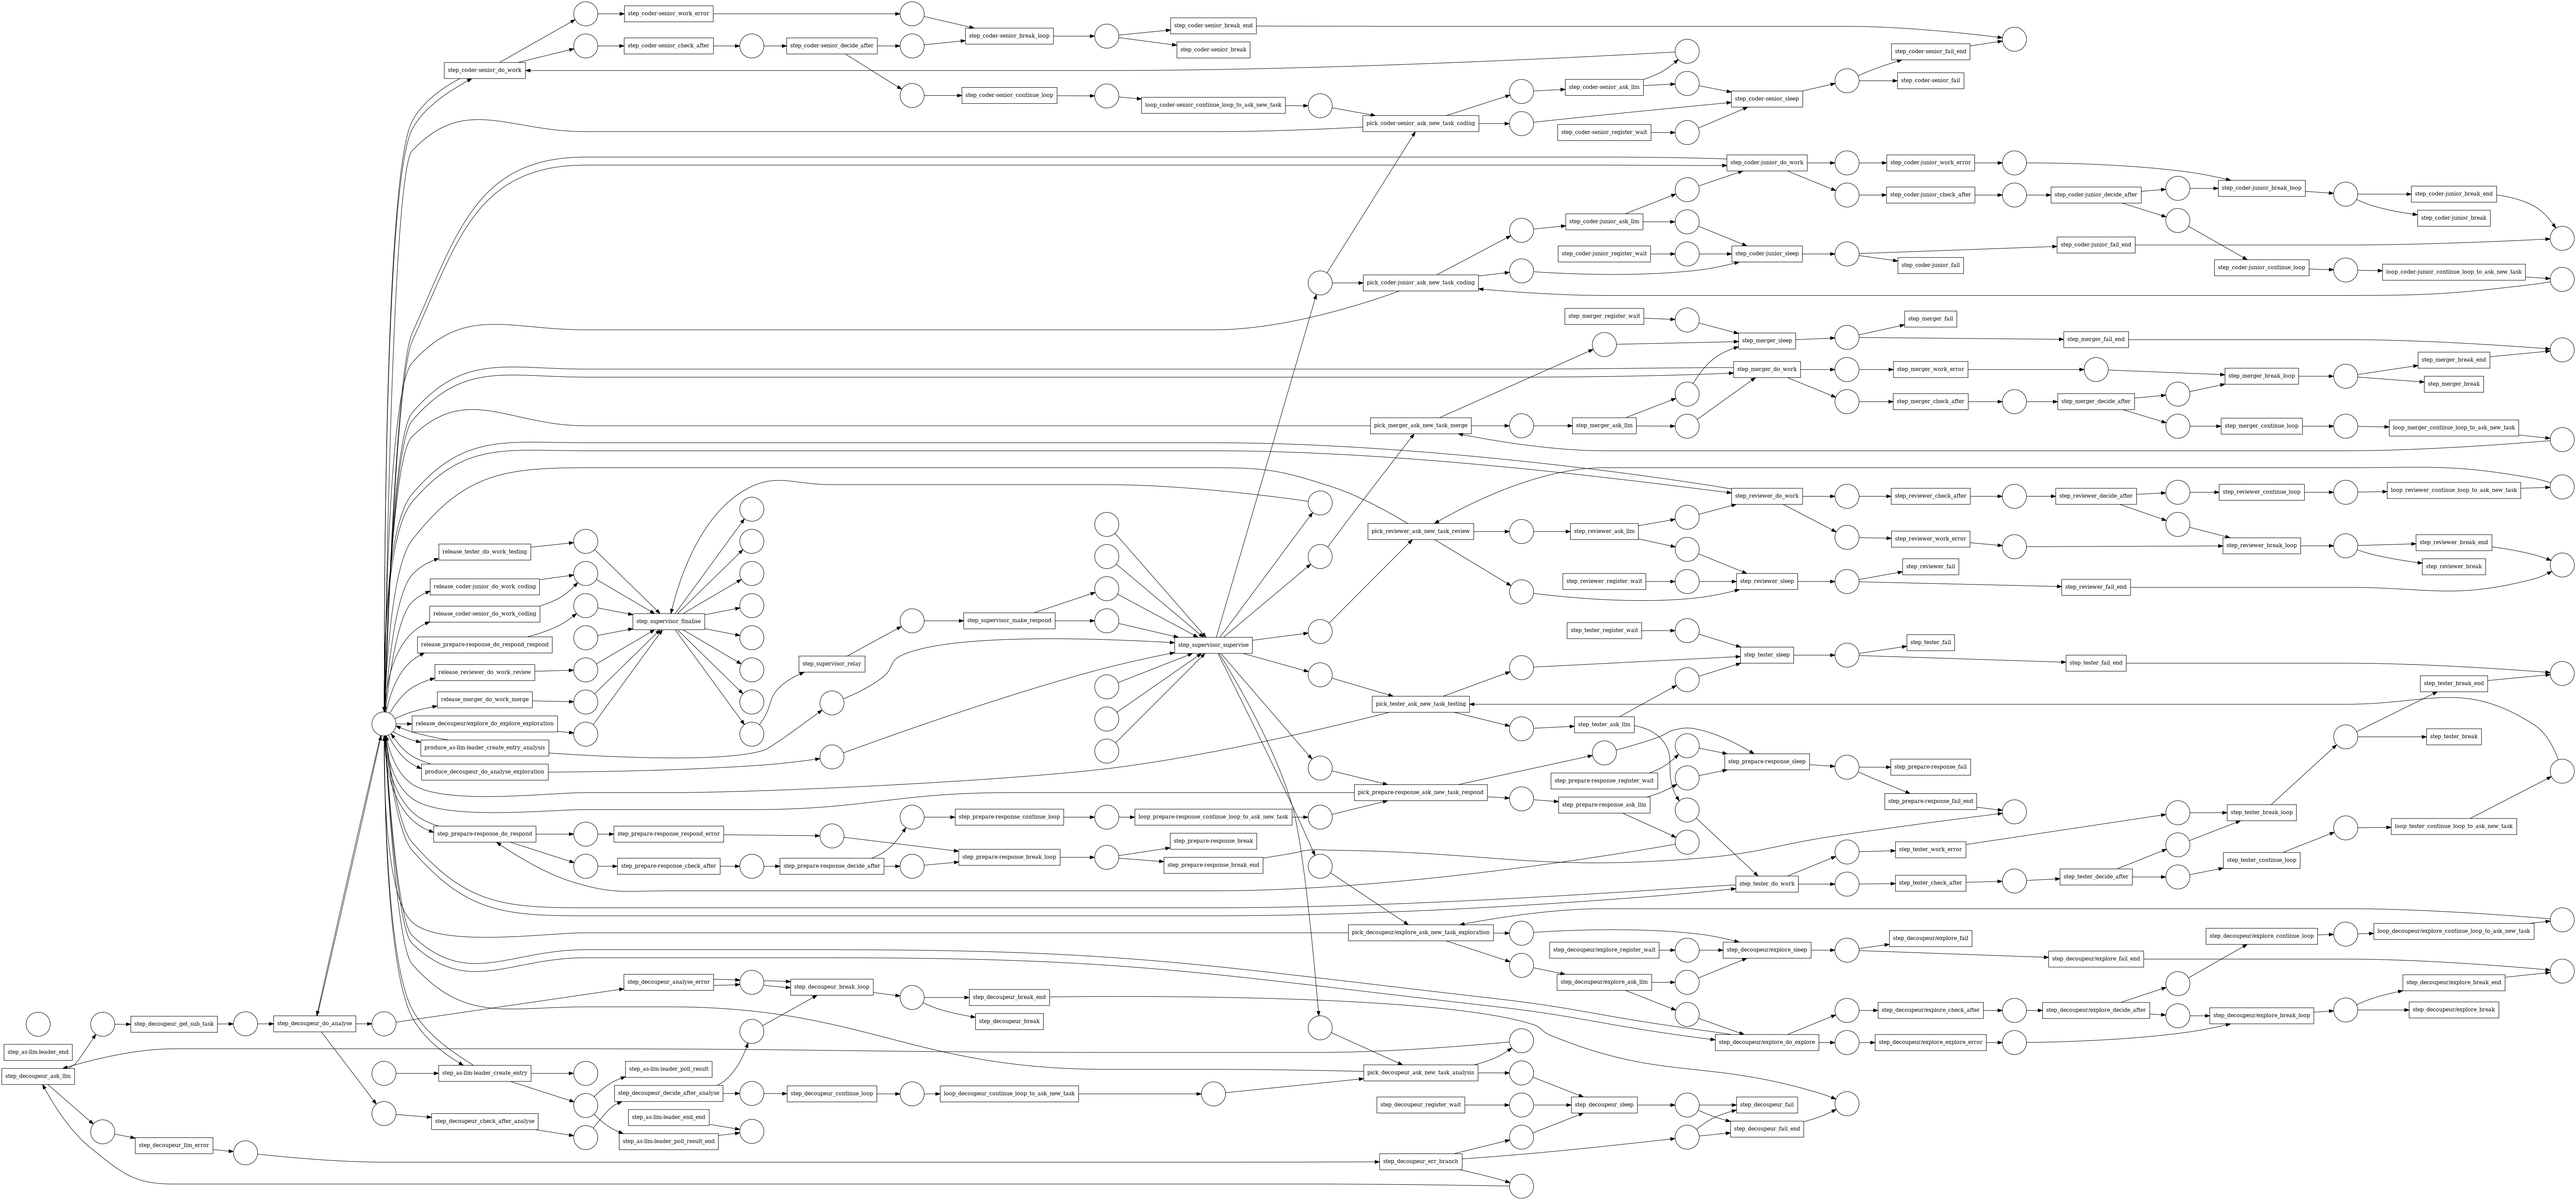
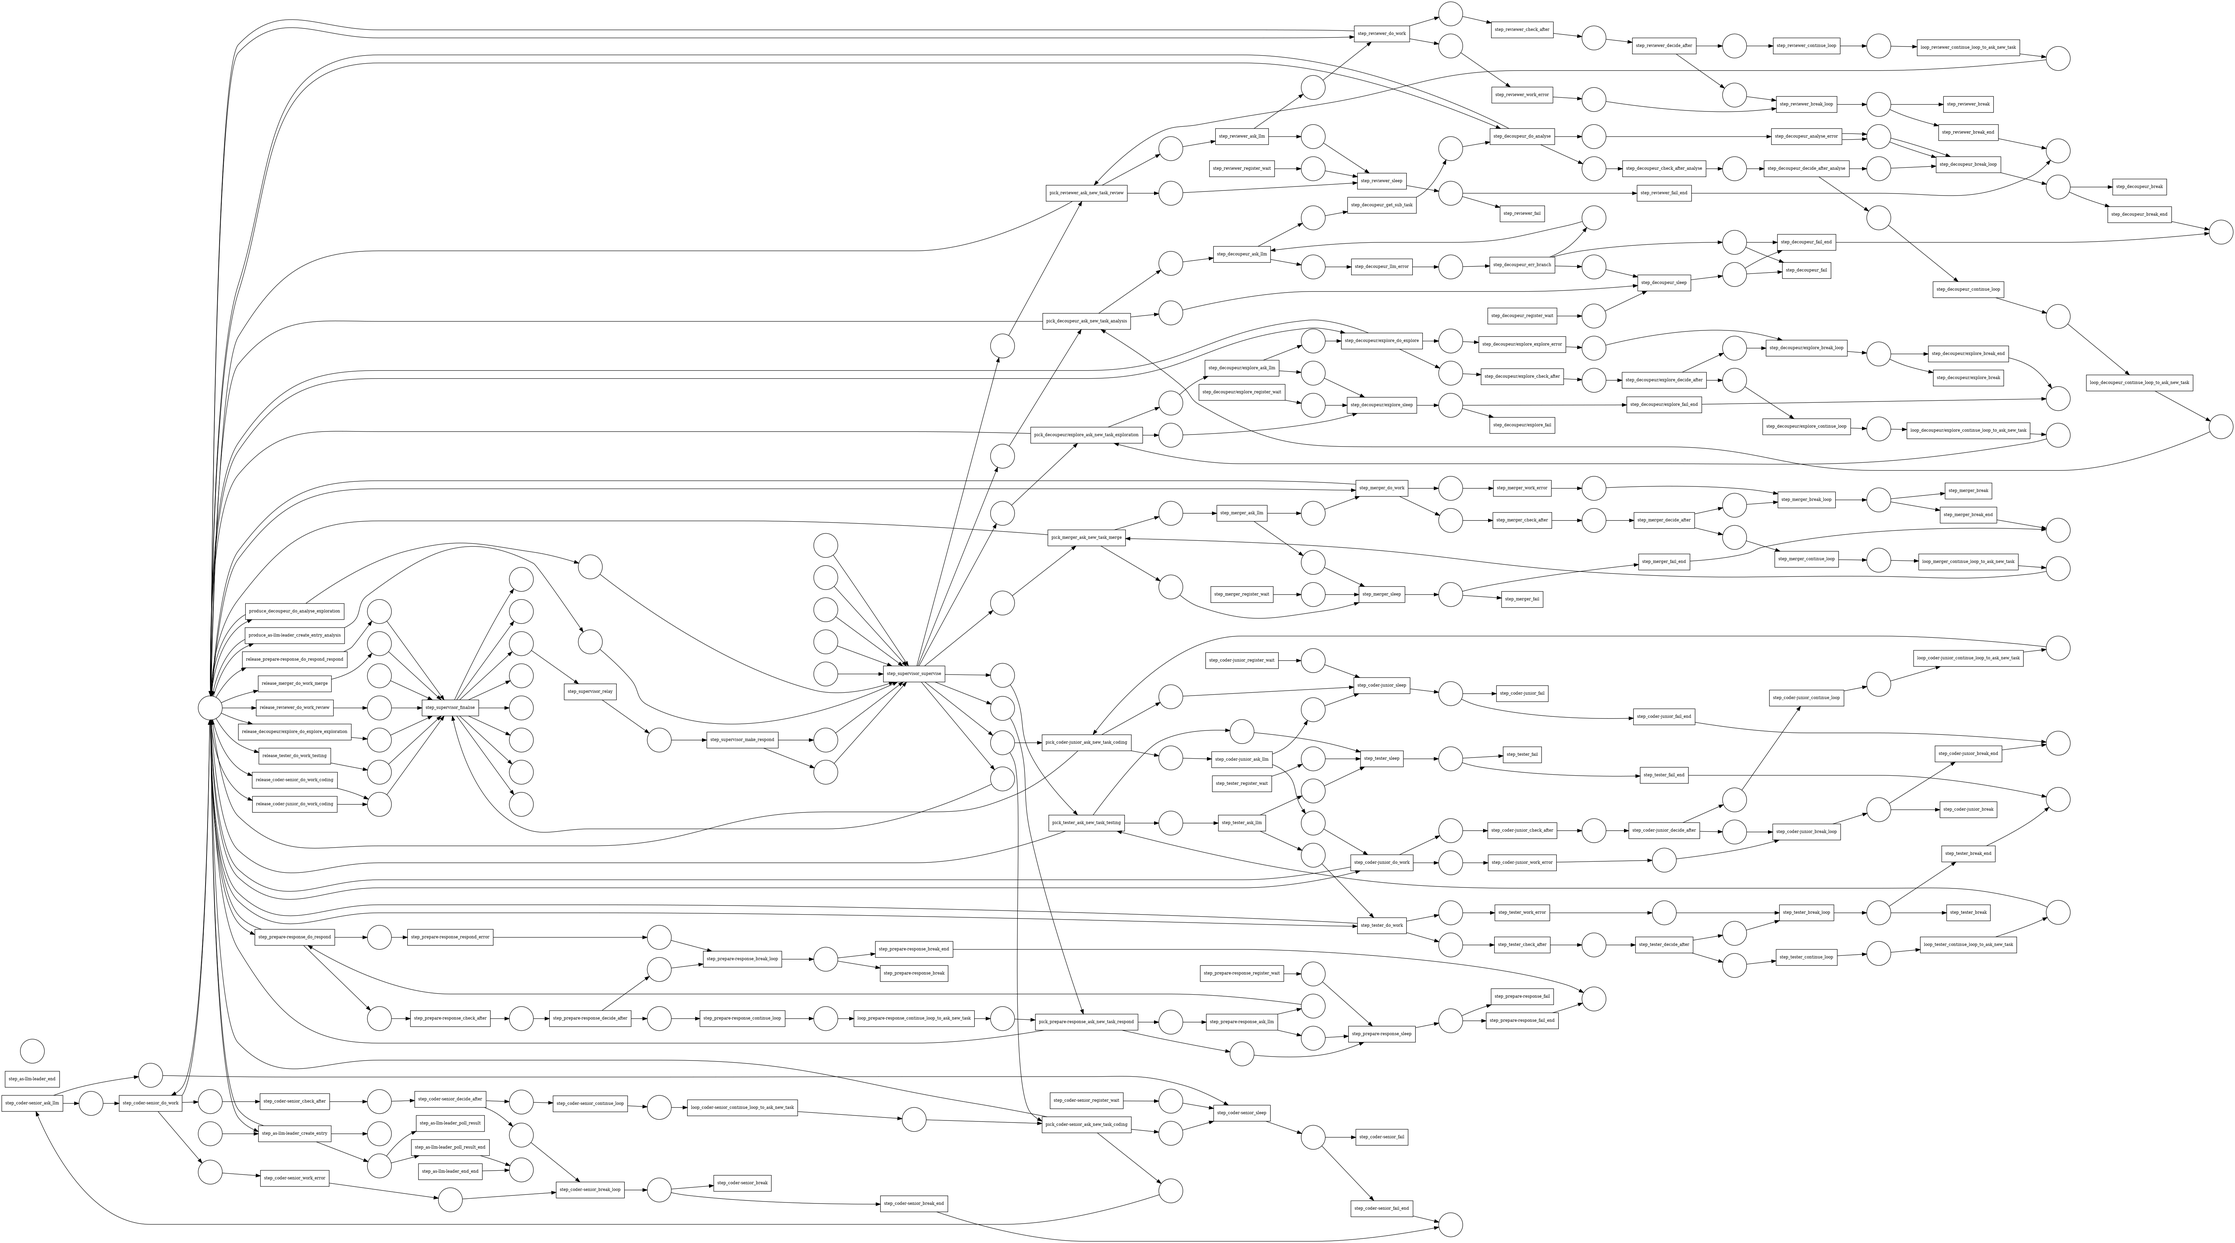
fix(diag): labels des places/transitions dans les PNG (visualiseur pm4py par défaut)
- save_petri_png : visualiseur pm4py par défaut (labels affichés) au lieu du
  variant WO_DECORATION qui les enlevait. font_size 9.
- Fallback corrigé (import pm4py). PNG régénérés (coder, superviseur, team).

diff --git a/services/taskflow_petri.py b/services/taskflow_petri.py
@@ -345,14 +345,15 @@ def save_petri_png(petri: Petri, out_path: str) -> str:
         if src is not None:
             m0[src] = 1
     try:
-        pm4py.save_vis_petri_net(net, m0, out_path)
+        from pm4py.visualization.petri_net import visualizer
+        # Visualiseur par défaut : les LABELS des places et transitions sont
+        # affichés (WO_DECORATION les enlèverait).
+        gviz = visualizer.apply(net, m0, None,
+                                parameters={"format": "png", "font_size": "9"})
+        visualizer.save(gviz, out_path)
     except Exception:
         import pm4py as _pm4py
-        from pm4py.visualization.petri_net import visualizer
-        gviz = visualizer.apply(net, m0, None,
-                                parameters={visualizer.Variants.WO_DECORATION.value:
-                                            {"format": "png"}})
-        visualizer.save(gviz, out_path)
+        _pm4py.save_vis_petri_net(net, m0, out_path)
     return out_path
 
 
